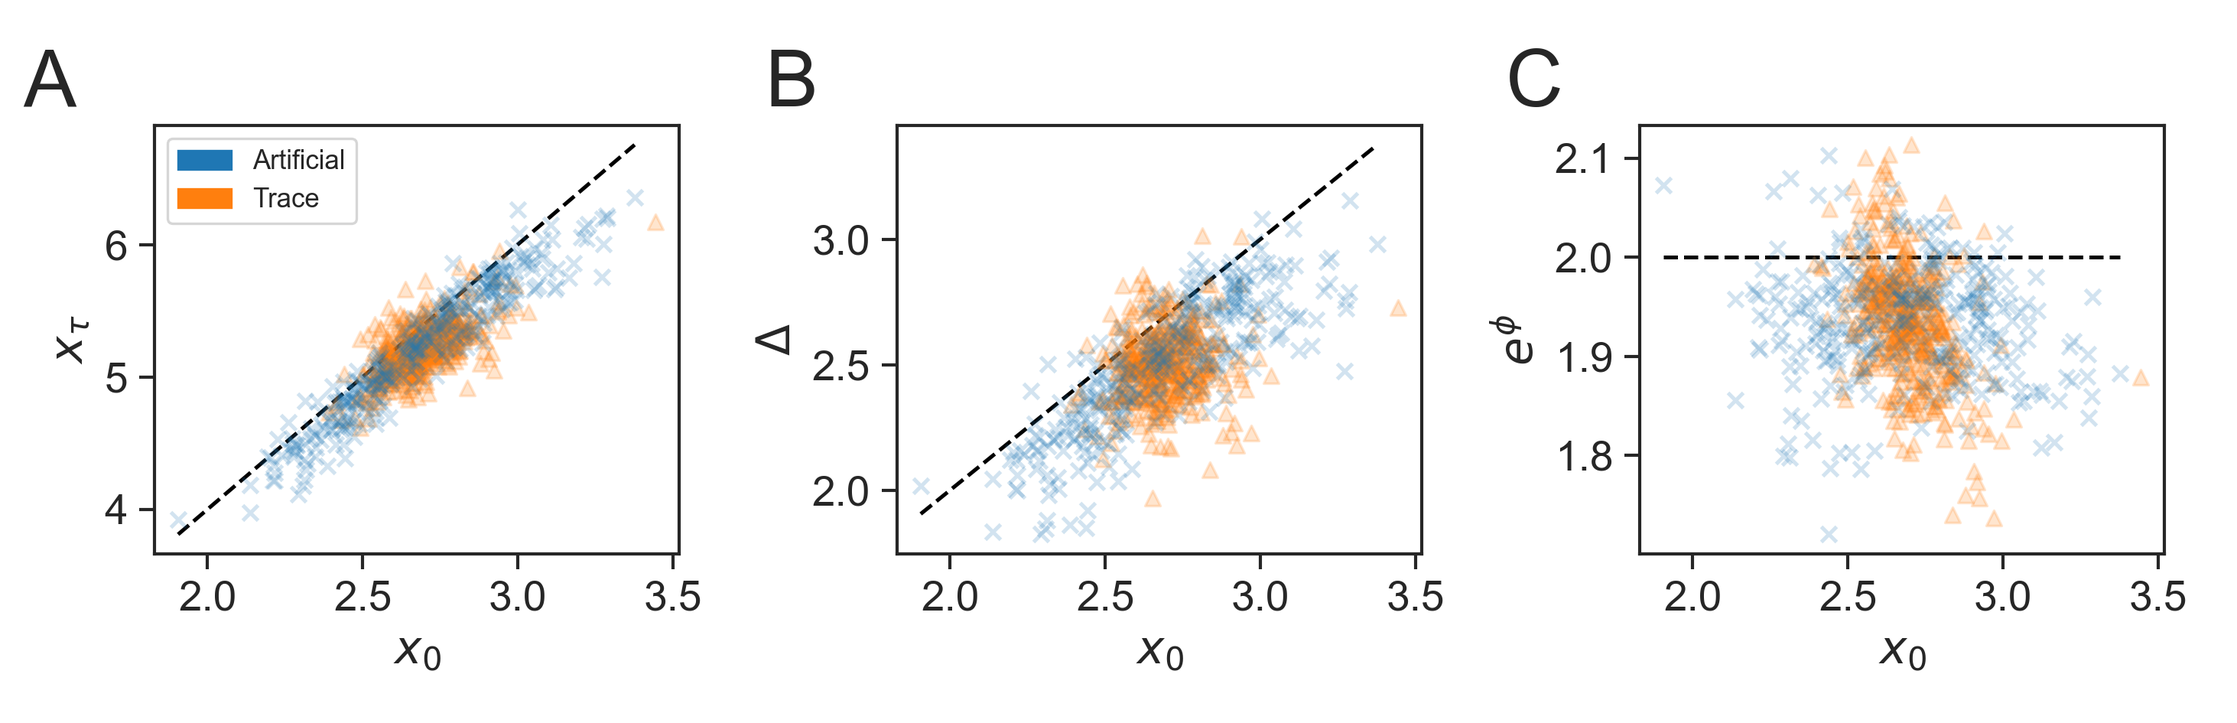
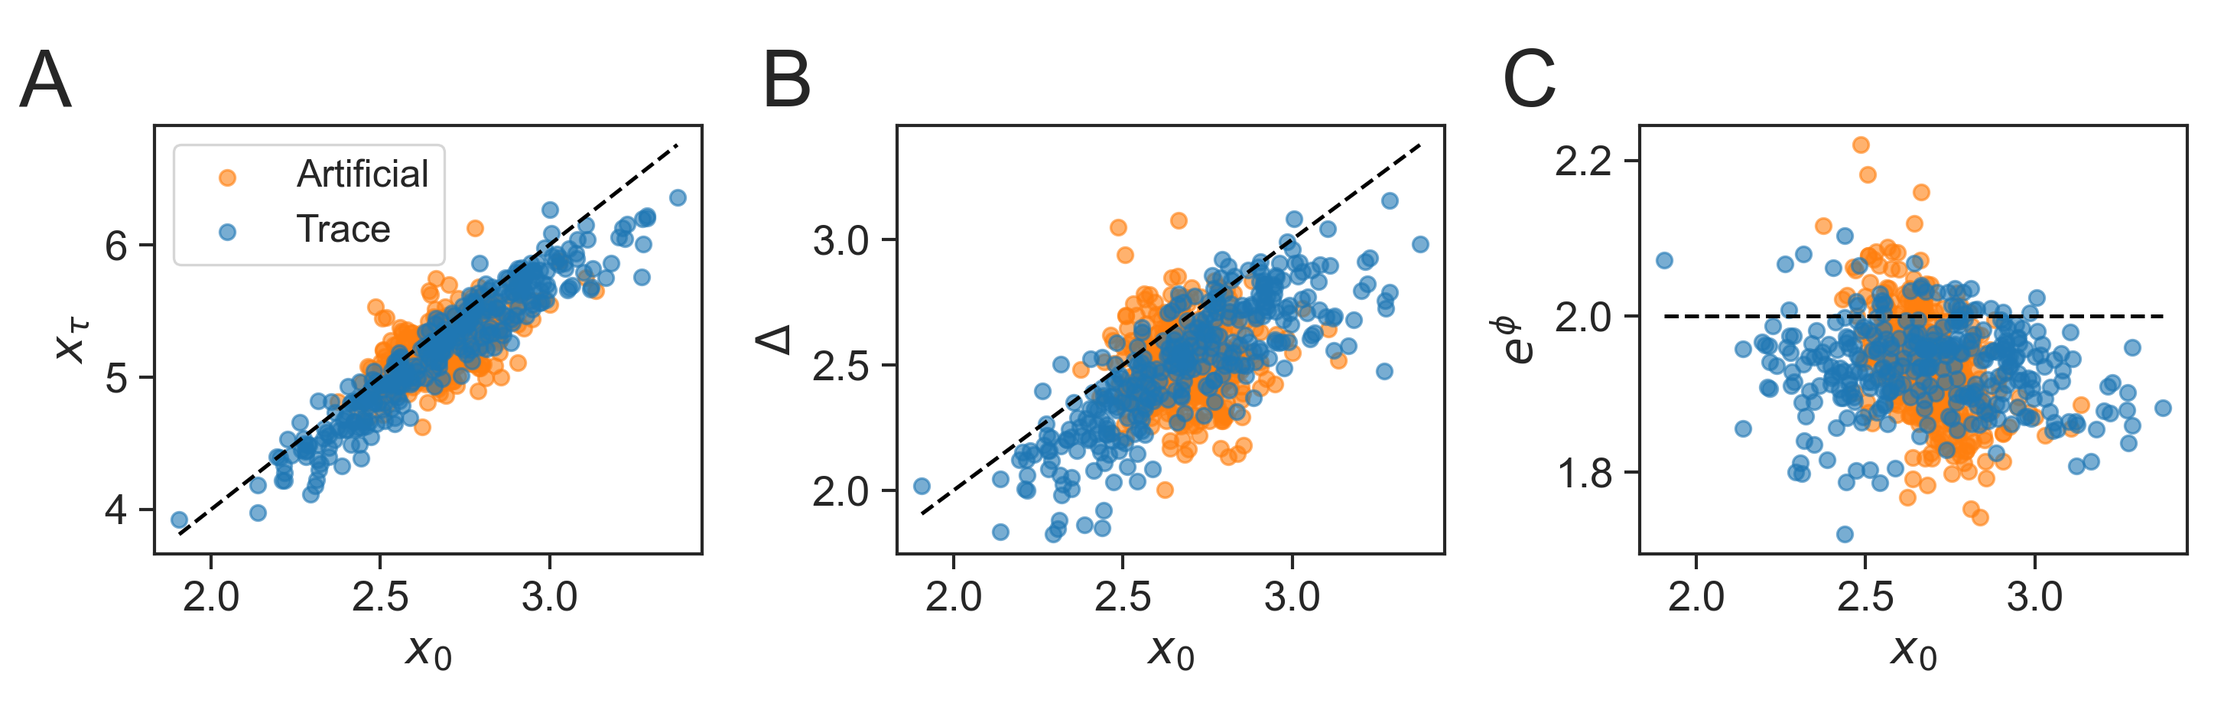
8/3/21

diff --git a/PooledAverageBehavior/different_timescaled.py b/PooledAverageBehavior/different_timescaled.py
@@ -11,22 +11,23 @@ from scipy.stats import linregress, pearsonr
 import matplotlib.patches as mpatches
 
 
-def add_scatterplot_of_averages(var1, var2, pooled, time_average, ax, marker='x'):
+def add_scatterplot_of_averages(var1, var2, pooled, time_average, ax, type_of_lineage, bounds=None):
     if pooled:
         for exp, c in zip(time_average.experiment.unique(), cmap):
             # lineages = df[(df['experiment'] == exp)].lineage_ID.unique()
             ax.scatter(time_average.sort_values('lineage_ID')[var1],  # So they don't overlap too much
                        time_average.sort_values('lineage_ID')[var2],  # [df[(df['experiment'] == exp) & (df['lineage_ID'] == lin_id)][var2].mean() for lin_id in lineages[:min(len(lineages), 50)]]
-                       marker='o', label=exp.split('(')[0] if marker == 'x' else '', alpha=.4)  # zorder=500,
+                       marker='o', label=exp.split('(')[0] if type_of_lineage == 'Trace' else '', alpha=.6)  # zorder=500,
     else:
         first = time_average.sort_values('lineage_ID')[var1]  # [df[df['lineage_ID'] == lin_id][var1].mean() for lin_id in df.lineage_ID.unique() if len(df[df['lineage_ID'] == lin_id]) > 6]
         second = time_average.sort_values('lineage_ID')[var2]  # [df[df['lineage_ID'] == lin_id][var2].mean() for lin_id in df.lineage_ID.unique() if len(df[df['lineage_ID'] == lin_id]) > 6]
-        ax.scatter(first, second, marker='o', c=cmap[0] if marker == 'x' else cmap[1], alpha=.4,
-                   label='Trace' if marker == 'x' else 'Artificial', edgecolor='white')  # zorder=500,
-        print(f'Trace averages correlation: {pearsonr(first, second)[0]}' if marker == 'x'
+        ax.scatter(first, second, marker='o', c=cmap[0] if type_of_lineage == 'Trace' else cmap[1], alpha=.6,
+                   label=type_of_lineage)  # zorder=500,
+        print(f'Trace averages correlation: {pearsonr(first, second)[0]}' if type_of_lineage == 'Trace'
               else f'Artificial averages correlation: {pearsonr(first, second)[0]}')
-        slope, intercept = linregress(first, second)[:2]
-        ax.plot(first, intercept + slope * first, c='blue', ls='-')
+        fakex = np.linspace(bounds[0], bounds[1], len(first))
+        slope, intercept = linregress(fakex, second)[:2]
+        ax.plot(fakex, intercept + slope * fakex, c='blue', ls='-')
 
 
 def plot_binned_data(df, var1, var2, num, ax):
@@ -45,51 +46,6 @@ def plot_binned_data(df, var1, var2, num, ax):
     ax.plot(x_binned, y_binned, marker='s', label='binned', zorder=1000, alpha=.6, c='k')
 
 
-# def kde_scatterplot_variables(df, var1, var2, num, ax, line_func=[], line_label='', pooled=False, artificial=None, sym1=None, sym2=None):  # df is pu of ONE experiment
-#     # The symbols for each variable
-#     if sym1 == None:
-#         sym1 = symbols['physical_units'][var1]  # if var1 != 'division_ratio' else r'$\ln(f)$'
-#     if sym2 == None:
-#         sym2 = symbols['physical_units'][var2]
-#
-#     df = df[df['max_gen'] > 15].copy().reset_index(drop=True)  # Take out extra small lineages
-#
-#     if isinstance(artificial, pd.DataFrame):  # If artificial lineages is a dataframe, plot those too
-#         artificial = artificial[artificial['max_gen'] > 7].copy().reset_index(drop=True)  # Take out extra small lineages
-#         add_scatterplot_of_averages(var1, var2, pooled, artificial, ax, marker='^')  # How a random average behavior is supposed to act when only keeping per-cycle correlations
-#
-#         no_nans_art = artificial[[var1, var2]].copy().dropna()  # drop the NaNs
-#         print(f'pooled correlation (Artificial): {pearsonr(no_nans_art[var1].values, no_nans_art[var2].values)[0]}')
-#
-#     # To speed it up we sample randomly 1,000 points
-#     # sns.kdeplot(data=df.sample(frac=.8, replace=False), x=var1, y=var2, color='gray', ax=ax)  # Do the kernel distribution approxiamtion for variables in their physical dimensions
-#     add_scatterplot_of_averages(var1, var2, pooled, df, ax, marker='x')  # Put the average behavior
-#
-#     if len(line_func) == 0:  # if we didn't put any
-#         pass
-#     elif line_func == 'regression':  # do the regression line!
-#         x, y = df[[var1, var2]].dropna()[var1].values, df[[var1, var2]].dropna()[var2].values
-#         slope, intercept = linregress(x, y)[:2]
-#         fake_x = np.linspace(np.nanmin(x), np.nanmax(x))
-#         ax.plot(fake_x, intercept + slope * fake_x, color='black', ls='--', label=f'{sym2}={np.round(intercept, 2)}+{np.round(slope, 2)}*{sym1}')
-#     else:  # Plot using the other functions for the min and max in the x distribution
-#         for count, func in enumerate(line_func):
-#             fake_x = np.linspace(np.nanmin(df[var1].values), np.nanmax(df[var1].values))  # x linespace
-#             ax.plot(fake_x, func(fake_x), color='black' if count == 0 else 'gray', ls='--', label=line_label)  # plot the x distribution
-#
-#     # plt.title(ds)
-#     # plot_binned_data(df, var1, var2, num, ax)  # plot the binned data
-#     ax.set_xlabel(sym1)
-#     ax.set_ylabel(sym2)
-#     # ax.legend(title='')
-#
-#     no_nans = df[[var1, var2]].copy().dropna()
-#
-#     print('kde scatter plot')
-#     print(f'pooled correlation (Trace): {pearsonr(no_nans[var1].values, no_nans[var2].values)[0]}')
-#     print('-' * 200)
-
-
 def plots_physical_units(df, var1, var2, num, ax, line_func=[], line_label='', pooled=False, artificial=None, sym1=None, sym2=None, pu=None):  # df is pu of ONE experiment
     # The symbols for each variable
     if sym1 == None:
@@ -105,24 +61,24 @@ def plots_physical_units(df, var1, var2, num, ax, line_func=[], line_label='', p
     print(f'Pooled correlation {var1} {var2}: {pearsonr(pool[var1].values, pool[var2].values)[0]}')
     
     # To speed it up we sample randomly 1,000 points
-    sns.scatterplot(data=pu.sample(frac=.8, replace=False), x=var1, y=var2, color='gray', ax=ax, edgecolor=None)  # Do the kernel distribution approxiamtion for variables in their physical dimensions
-    # sns.kdeplot(data=df.sample(frac=.8, replace=False), x=var1, y=var2, color='gray', ax=ax)  # Do the kernel distribution approxiamtion for variables in their physical dimensions
-    add_scatterplot_of_averages(var1, var2, pooled, df, ax, marker='x')  # Put the average behavior
+    sns.scatterplot(data=pu, x=var1, y=var2, color='silver', ax=ax, edgecolor=None)  # Do the kernel distribution approxiamtion for variables in their physical dimensions
+    # sns.kdeplot(data=pu, x=var1, y=var2, color='silver', ax=ax)  # Do the kernel distribution approxiamtion for variables in their physical dimensions
+    add_scatterplot_of_averages(var1, var2, pooled, df, ax, type_of_lineage='Trace', bounds=[df[var1].min(), df[var1].max()])  # Put the average behavior
     
     if len(line_func) == 0:  # if we didn't put any
         pass
-    elif line_func == 'regression':  # do the regression line!
-        x, y = df[[var1, var2]].dropna()[var1].values, df[[var1, var2]].dropna()[var2].values
+    elif 'regression' in line_func:  # do the regression line!
+        x, y = pu[[var1, var2]].dropna()[var1].values, pu[[var1, var2]].dropna()[var2].values
         slope, intercept = linregress(x, y)[:2]
         fake_x = np.linspace(np.nanmin(x), np.nanmax(x))
         ax.plot(fake_x, intercept + slope * fake_x, color='black', ls='--', label=f'{sym2}={np.round(intercept, 2)}+{np.round(slope, 2)}*{sym1}')
     else:  # Plot using the other functions for the min and max in the x distribution
         for count, func in enumerate(line_func):
             fake_x = np.linspace(np.nanmin(df[var1].values), np.nanmax(df[var1].values))  # x linespace
-            ax.plot(fake_x, func(fake_x), color='black' if count == 0 else 'gray', ls='--', label=line_label)  # plot the x distribution
+            ax.plot(fake_x, func(fake_x), color='black' if count == 0 else 'silver', ls='--', label=line_label)  # plot the x distribution
     
     # plt.title(ds)
-    plot_binned_data(pu, var1, var2, num, ax)  # plot the binned data
+    # plot_binned_data(pu, var1, var2, num, ax)  # plot the binned data
     ax.set_xlabel(sym1)
     ax.set_ylabel(sym2)
     # ax.legend(title='')
@@ -149,24 +105,24 @@ def plots_trace_centered(df, var1, var2, num, ax, line_func=[], line_label='', p
     print(f'Pooled correlation {var1} {var2}: {pearsonr(pool[var1].values, pool[var2].values)[0]}')
     
     # To speed it up we sample randomly 1,000 points
-    sns.scatterplot(data=pu.sample(frac=.8, replace=False), x=var1, y=var2, color='gray', ax=ax, edgecolor=None)  # Do the kernel distribution approxiamtion for variables in their physical dimensions
-    # sns.kdeplot(data=df.sample(frac=.8, replace=False), x=var1, y=var2, color='gray', ax=ax)  # Do the kernel distribution approxiamtion for variables in their physical dimensions
+    sns.scatterplot(data=pu, x=var1, y=var2, color='silver', ax=ax, edgecolor=None)  # Do the kernel distribution approxiamtion for variables in their physical dimensions
+    # sns.kdeplot(data=pu, x=var1, y=var2, color='silver', ax=ax)  # Do the kernel distribution approxiamtion for variables in their physical dimensions
     # add_scatterplot_of_averages(var1, var2, pooled, df, ax, marker='x')  # Put the average behavior
     
     if len(line_func) == 0:  # if we didn't put any
         pass
-    elif line_func == 'regression':  # do the regression line!
-        x, y = df[[var1, var2]].dropna()[var1].values, df[[var1, var2]].dropna()[var2].values
+    elif 'regression' in line_func:  # do the regression line!
+        x, y = pu[[var1, var2]].dropna()[var1].values, pu[[var1, var2]].dropna()[var2].values
         slope, intercept = linregress(x, y)[:2]
         fake_x = np.linspace(np.nanmin(x), np.nanmax(x))
         ax.plot(fake_x, intercept + slope * fake_x, color='black', ls='--', label=f'{sym2}={np.round(intercept, 2)}+{np.round(slope, 2)}*{sym1}')
     else:  # Plot using the other functions for the min and max in the x distribution
         for count, func in enumerate(line_func):
             fake_x = np.linspace(np.nanmin(df[var1].values), np.nanmax(df[var1].values))  # x linespace
-            ax.plot(fake_x, func(fake_x), color='black' if count == 0 else 'gray', ls='--', label=line_label)  # plot the x distribution
+            ax.plot(fake_x, func(fake_x), color='black' if count == 0 else 'silver', ls='--', label=line_label)  # plot the x distribution
     
     # plt.title(ds)
-    plot_binned_data(pu, var1, var2, num, ax)  # plot the binned data
+    # plot_binned_data(pu, var1, var2, num, ax)  # plot the binned data
     ax.set_xlabel(sym1)
     ax.set_ylabel(sym2)
     # ax.legend(title='')
@@ -285,7 +241,7 @@ plots_physical_units(
     var2='growth_rate',
     num=num,
     ax=axes[0, 0],
-    line_func=[],  # 'regression',  #lambda x: np.log(2) / x, lambda x: -x ;;;;; None,
+    line_func=['regression'],  # 'regression',  #lambda x: np.log(2) / x, lambda x: -x ;;;;; None,
     pooled=False,
     artificial=art,
     pu=pu
@@ -297,7 +253,7 @@ plots_physical_units(
     var2='generationtime',
     num=num,
     ax=axes[0, 1],
-    line_func=[],  # 'regression',  #lambda x: np.log(2) / x, lambda x: -x ;;;;; None, lambda x: x - (np.nanmean(x) * (-1 + np.exp(pu['fold_growth'].mean())))/2
+    line_func=['regression'],  # 'regression',  #lambda x: np.log(2) / x, lambda x: -x ;;;;; None, lambda x: x - (np.nanmean(x) * (-1 + np.exp(pu['fold_growth'].mean())))/2
     pooled=False,
     artificial=art,
     pu=pu
@@ -309,7 +265,7 @@ plots_physical_units(
     var2='division_ratio',
     num=num,
     ax=axes[0, 2],
-    line_func=[],  # lambda x: np.nanmean(pu['fold_growth'].values) * np.array([1 for _ in np.arange(len(x))])
+    line_func=['regression'],  # lambda x: np.nanmean(pu['fold_growth'].values) * np.array([1 for _ in np.arange(len(x))])
     pooled=False,
     artificial=art,
     pu=pu
@@ -323,7 +279,7 @@ plots_trace_centered(
     var2='growth_rate',
     num=num,
     ax=axes[1, 0],
-    line_func=[],  # 'regression',  #lambda x: np.log(2) / x, lambda x: -x ;;;;; None,
+    line_func=['regression'],  # 'regression',  #lambda x: np.log(2) / x, lambda x: -x ;;;;; None,
     pooled=False,
     artificial=art,
     pu=tc
@@ -335,7 +291,7 @@ plots_trace_centered(
     var2='generationtime',
     num=num,
     ax=axes[1, 1],
-    line_func=[],  # 'regression',  #lambda x: np.log(2) / x, lambda x: -x ;;;;; None, lambda x: x - (np.nanmean(x) * (-1 + np.exp(pu['fold_growth'].mean())))/2
+    line_func=['regression'],  # 'regression',  #lambda x: np.log(2) / x, lambda x: -x ;;;;; None, lambda x: x - (np.nanmean(x) * (-1 + np.exp(pu['fold_growth'].mean())))/2
     pooled=False,
     artificial=art,
     pu=tc
@@ -347,7 +303,7 @@ plots_trace_centered(
     var2='division_ratio',
     num=num,
     ax=axes[1, 2],
-    line_func=[],  # lambda x: np.nanmean(pu['fold_growth'].values) * np.array([1 for _ in np.arange(len(x))])
+    line_func=['regression'],  # lambda x: np.nanmean(pu['fold_growth'].values) * np.array([1 for _ in np.arange(len(x))])
     pooled=False,
     artificial=art,
     pu=tc
@@ -358,6 +314,6 @@ plots_trace_centered(
 # axes[0, 0].legend(handles, labels, markerscale=.5)
 
 # plt.legend()
-plt.savefig('average_vs_pooled_behavior.png', dpi=300)
+plt.savefig('average_vs_pooled_behavior_1.png', dpi=300)
 plt.show()
 plt.close()

diff --git a/MicroenvironmentAverageBehavior/alpha_tau_code.py b/MicroenvironmentAverageBehavior/alpha_tau_code.py
@@ -11,19 +11,19 @@ from scipy.stats import linregress, pearsonr
 import matplotlib.patches as mpatches
 
 
-def add_scatterplot_of_averages(var1, var2, pooled, time_average, ax, type_of_lineage, marker='x'):
+def add_scatterplot_of_averages(var1, var2, pooled, time_average, ax, type_of_lineage, marker='o'):
     if pooled:
         for exp, c in zip(time_average.experiment.unique(), cmap):
             # lineages = df[(df['experiment'] == exp)].lineage_ID.unique()
             ax.scatter(time_average.sort_values('lineage_ID')[var1],  # So they don't overlap too much
                        time_average.sort_values('lineage_ID')[var2],  # [df[(df['experiment'] == exp) & (df['lineage_ID'] == lin_id)][var2].mean() for lin_id in lineages[:min(len(lineages), 50)]]
-                       marker=marker, zorder=500, label=exp.split('(')[0] if type_of_lineage == 'Trace' else '', alpha=.2 if type_of_lineage == 'Trace' else .1)
+                       marker=marker, zorder=500, label=exp.split('(')[0] if type_of_lineage == 'Trace' else '', alpha=.6)
     else:
         first = time_average.sort_values('lineage_ID')[var1]  # [df[df['lineage_ID'] == lin_id][var1].mean() for lin_id in df.lineage_ID.unique() if len(df[df['lineage_ID'] == lin_id]) > 6]
         second = time_average.sort_values('lineage_ID')[var2]  # [df[df['lineage_ID'] == lin_id][var2].mean() for lin_id in df.lineage_ID.unique() if len(df[df['lineage_ID'] == lin_id]) > 6]
-        ax.scatter(first, second, marker=marker, c=cmap[0] if type_of_lineage == 'Trace' else cmap[1], zorder=500, alpha=.2 if type_of_lineage == 'Trace' else .1,
+        ax.scatter(first, second, marker=marker, c=cmap[0] if type_of_lineage == 'Trace' else cmap[1], zorder=500, alpha=.6,
                    label=type_of_lineage)
-        print(f'Trace averages correlation: {pearsonr(first, second)[0]}' if marker == 'x'
+        print(f'Trace averages correlation: {pearsonr(first, second)[0]}' if type_of_lineage == 'Trace'
               else f'Artificial averages correlation: {pearsonr(first, second)[0]}')
 
 
@@ -56,14 +56,14 @@ def kde_scatterplot_variables(df, var1, var2, num, ax, line_func=[], line_label=
     
     if isinstance(artificial, pd.DataFrame):  # If artificial lineages is a dataframe, plot those too
         artificial = artificial[artificial['max_gen'] > 7].copy().reset_index(drop=True)  # Take out extra small lineages
-        add_scatterplot_of_averages(var1, var2, pooled, artificial, ax, 'Artificial', marker='^')  # How a random average behavior is supposed to act when only keeping per-cycle correlations
+        add_scatterplot_of_averages(var1, var2, pooled, artificial, ax, 'Artificial')  # How a random average behavior is supposed to act when only keeping per-cycle correlations
         
         no_nans_art = artificial[[var1, var2]].copy().dropna()  # drop the NaNs
         print(f'pooled correlation (Artificial): {pearsonr(no_nans_art[var1].values, no_nans_art[var2].values)[0]}')
     
     # To speed it up we sample randomly 1,000 points
     # sns.kdeplot(data=df.sample(frac=.8, replace=False), x=var1, y=var2, color='gray', ax=ax)  # Do the kernel distribution approxiamtion for variables in their physical dimensions
-    add_scatterplot_of_averages(var1, var2, pooled, df, ax, 'Trace', marker='x')  # Put the average behavior
+    add_scatterplot_of_averages(var1, var2, pooled, df, ax, 'Trace')  # Put the average behavior
     
     if len(line_func) == 0:  # if we didn't put any
         pass
@@ -71,11 +71,11 @@ def kde_scatterplot_variables(df, var1, var2, num, ax, line_func=[], line_label=
         x, y = df[[var1, var2]].dropna()[var1].values, df[[var1, var2]].dropna()[var2].values
         slope, intercept = linregress(x, y)[:2]
         fake_x = np.linspace(np.nanmin(x), np.nanmax(x))
-        ax.plot(fake_x, intercept + slope * fake_x, color='black', ls='--', label=f'{sym2}={np.round(intercept, 2)}+{np.round(slope, 2)}*{sym1}')
+        ax.plot(fake_x, intercept + slope * fake_x, color='black', ls='--', label=f'{sym2}={np.round(intercept, 2)}+{np.round(slope, 2)}*{sym1}', zorder=1000)
     else:  # Plot using the other functions for the min and max in the x distribution
         for count, func in enumerate(line_func):
             fake_x = np.linspace(np.nanmin(df[var1].values), np.nanmax(df[var1].values))  # x linespace
-            ax.plot(fake_x, func(fake_x), color='black' if count == 0 else 'gray', ls='--', label=line_label)  # plot the x distribution
+            ax.plot(fake_x, func(fake_x), color='black' if count == 0 else 'gray', ls='--', label=line_label, zorder=1000)  # plot the x distribution
     
     # plt.title(ds)
     # plot_binned_data(df, var1, var2, num, ax)  # plot the binned data
@@ -212,9 +212,9 @@ kde_scatterplot_variables(
     sym2=r'$e^{\phi}$'
 )
 
-handles = [mpatches.Patch(color=cmap[1], label='Artificial'), mpatches.Patch(color=cmap[0], label='Trace')]
-_, labels = axes[0, 2].get_legend_handles_labels()
-axes[0, 2].legend(handles, labels, fontsize='xx-small', markerscale=.5)
+# handles = [mpatches.Patch(color=cmap[1], label='Artificial'), mpatches.Patch(color=cmap[0], label='Trace')]
+handles, labels = axes[0, 2].get_legend_handles_labels()
+axes[0, 2].legend(handles, labels, fontsize='small')  # , markerscale=.5
 
 plot_pair_scatterplots(pu, 'generationtime', 'generationtime', axes[0, 1])
 plot_pair_scatterplots(pu, 'growth_rate', 'growth_rate', axes[0, 0])

diff --git a/SizeVariablesAverageBehavior/size_variables_code.py b/SizeVariablesAverageBehavior/size_variables_code.py
@@ -11,19 +11,19 @@ from scipy.stats import linregress, pearsonr
 import matplotlib.patches as mpatches
 
 
-def add_scatterplot_of_averages(var1, var2, pooled, time_average, ax, marker='x'):
+def add_scatterplot_of_averages(var1, var2, pooled, time_average, ax, type_of_lineage, marker='o'):
     if pooled:
         for exp, c in zip(time_average.experiment.unique(), cmap):
             # lineages = df[(df['experiment'] == exp)].lineage_ID.unique()
             ax.scatter(time_average.sort_values('lineage_ID')[var1],  # So they don't overlap too much
                        time_average.sort_values('lineage_ID')[var2],  # [df[(df['experiment'] == exp) & (df['lineage_ID'] == lin_id)][var2].mean() for lin_id in lineages[:min(len(lineages), 50)]]
-                       marker=marker, zorder=500, label=exp.split('(')[0] if marker == 'x' else '', alpha=.2)
+                       marker=marker, zorder=500, label=exp.split('(')[0] if type_of_lineage == 'Trace' else '', alpha=.6)
     else:
         first = time_average.sort_values('lineage_ID')[var1]  # [df[df['lineage_ID'] == lin_id][var1].mean() for lin_id in df.lineage_ID.unique() if len(df[df['lineage_ID'] == lin_id]) > 6]
         second = time_average.sort_values('lineage_ID')[var2]  # [df[df['lineage_ID'] == lin_id][var2].mean() for lin_id in df.lineage_ID.unique() if len(df[df['lineage_ID'] == lin_id]) > 6]
-        ax.scatter(first, second, marker=marker, c=cmap[0] if marker == 'x' else cmap[1], zorder=500, alpha=.2,
-                   label='Trace' if marker == 'x' else 'Artificial')
-        print(f'Trace averages correlation: {pearsonr(first, second)[0]}' if marker == 'x'
+        ax.scatter(first, second, marker=marker, c=cmap[0] if type_of_lineage == 'Trace' else cmap[1], zorder=500, alpha=.6,
+                   label='Trace' if type_of_lineage == 'Trace' else 'Artificial')
+        print(f'Trace averages correlation: {pearsonr(first, second)[0]}' if type_of_lineage == 'Trace'
               else f'Artificial averages correlation: {pearsonr(first, second)[0]}')
 
 
@@ -54,14 +54,14 @@ def kde_scatterplot_variables(df, var1, var2, num, ax, line_func=[], line_label=
     
     if isinstance(artificial, pd.DataFrame):  # If artificial lineages is a dataframe, plot those too
         artificial = artificial[artificial['max_gen'] > 7].copy().reset_index(drop=True)  # Take out extra small lineages
-        add_scatterplot_of_averages(var1, var2, pooled, artificial, ax, marker='^')  # How a random average behavior is supposed to act when only keeping per-cycle correlations
+        add_scatterplot_of_averages(var1, var2, pooled, artificial, ax, type_of_lineage='Artificial')  # How a random average behavior is supposed to act when only keeping per-cycle correlations
         
         no_nans_art = artificial[[var1, var2]].copy().dropna()  # drop the NaNs
         print(f'pooled correlation (Artificial): {pearsonr(no_nans_art[var1].values, no_nans_art[var2].values)[0]}')
     
     # To speed it up we sample randomly 1,000 points
     # sns.kdeplot(data=df.sample(frac=.8, replace=False), x=var1, y=var2, color='gray', ax=ax)  # Do the kernel distribution approxiamtion for variables in their physical dimensions
-    add_scatterplot_of_averages(var1, var2, pooled, df, ax, marker='x')  # Put the average behavior
+    add_scatterplot_of_averages(var1, var2, pooled, df, ax, type_of_lineage='Trace')  # Put the average behavior
     
     if len(line_func) == 0:  # if we didn't put any
         pass
@@ -69,11 +69,11 @@ def kde_scatterplot_variables(df, var1, var2, num, ax, line_func=[], line_label=
         x, y = df[[var1, var2]].dropna()[var1].values, df[[var1, var2]].dropna()[var2].values
         slope, intercept = linregress(x, y)[:2]
         fake_x = np.linspace(np.nanmin(x), np.nanmax(x))
-        ax.plot(fake_x, intercept + slope * fake_x, color='black', ls='--', label=f'{sym2}={np.round(intercept, 2)}+{np.round(slope, 2)}*{sym1}')
+        ax.plot(fake_x, intercept + slope * fake_x, color='black', ls='--', label=f'{sym2}={np.round(intercept, 2)}+{np.round(slope, 2)}*{sym1}', zorder=1000)
     else:  # Plot using the other functions for the min and max in the x distribution
         for count, func in enumerate(line_func):
             fake_x = np.linspace(np.nanmin(df[var1].values), np.nanmax(df[var1].values))  # x linespace
-            ax.plot(fake_x, func(fake_x), color='black' if count == 0 else 'gray', ls='--', label=line_label)  # plot the x distribution
+            ax.plot(fake_x, func(fake_x), color='black' if count == 0 else 'gray', ls='--', label=line_label, zorder=1000)  # plot the x distribution
     
     # plt.title(ds)
     # plot_binned_data(df, var1, var2, num, ax)  # plot the binned data
@@ -219,9 +219,9 @@ kde_scatterplot_variables(
     sym2=r'$e^{\phi}$'
 )
 
-handles = [mpatches.Patch(color=cmap[1], label='Artificial'), mpatches.Patch(color=cmap[0], label='Trace')]
-_, labels = axes[0].get_legend_handles_labels()
-axes[0].legend(handles, labels, fontsize='xx-small', markerscale=.5)
+# handles = [mpatches.Patch(color=cmap[1], label='Artificial'), mpatches.Patch(color=cmap[0], label='Trace')]
+handles, labels = axes[0].get_legend_handles_labels()
+axes[0].legend(handles, labels, fontsize='small')  # , markerscale=.5
 
 # plt.legend()
 plt.savefig('size_variables.png', dpi=300)
